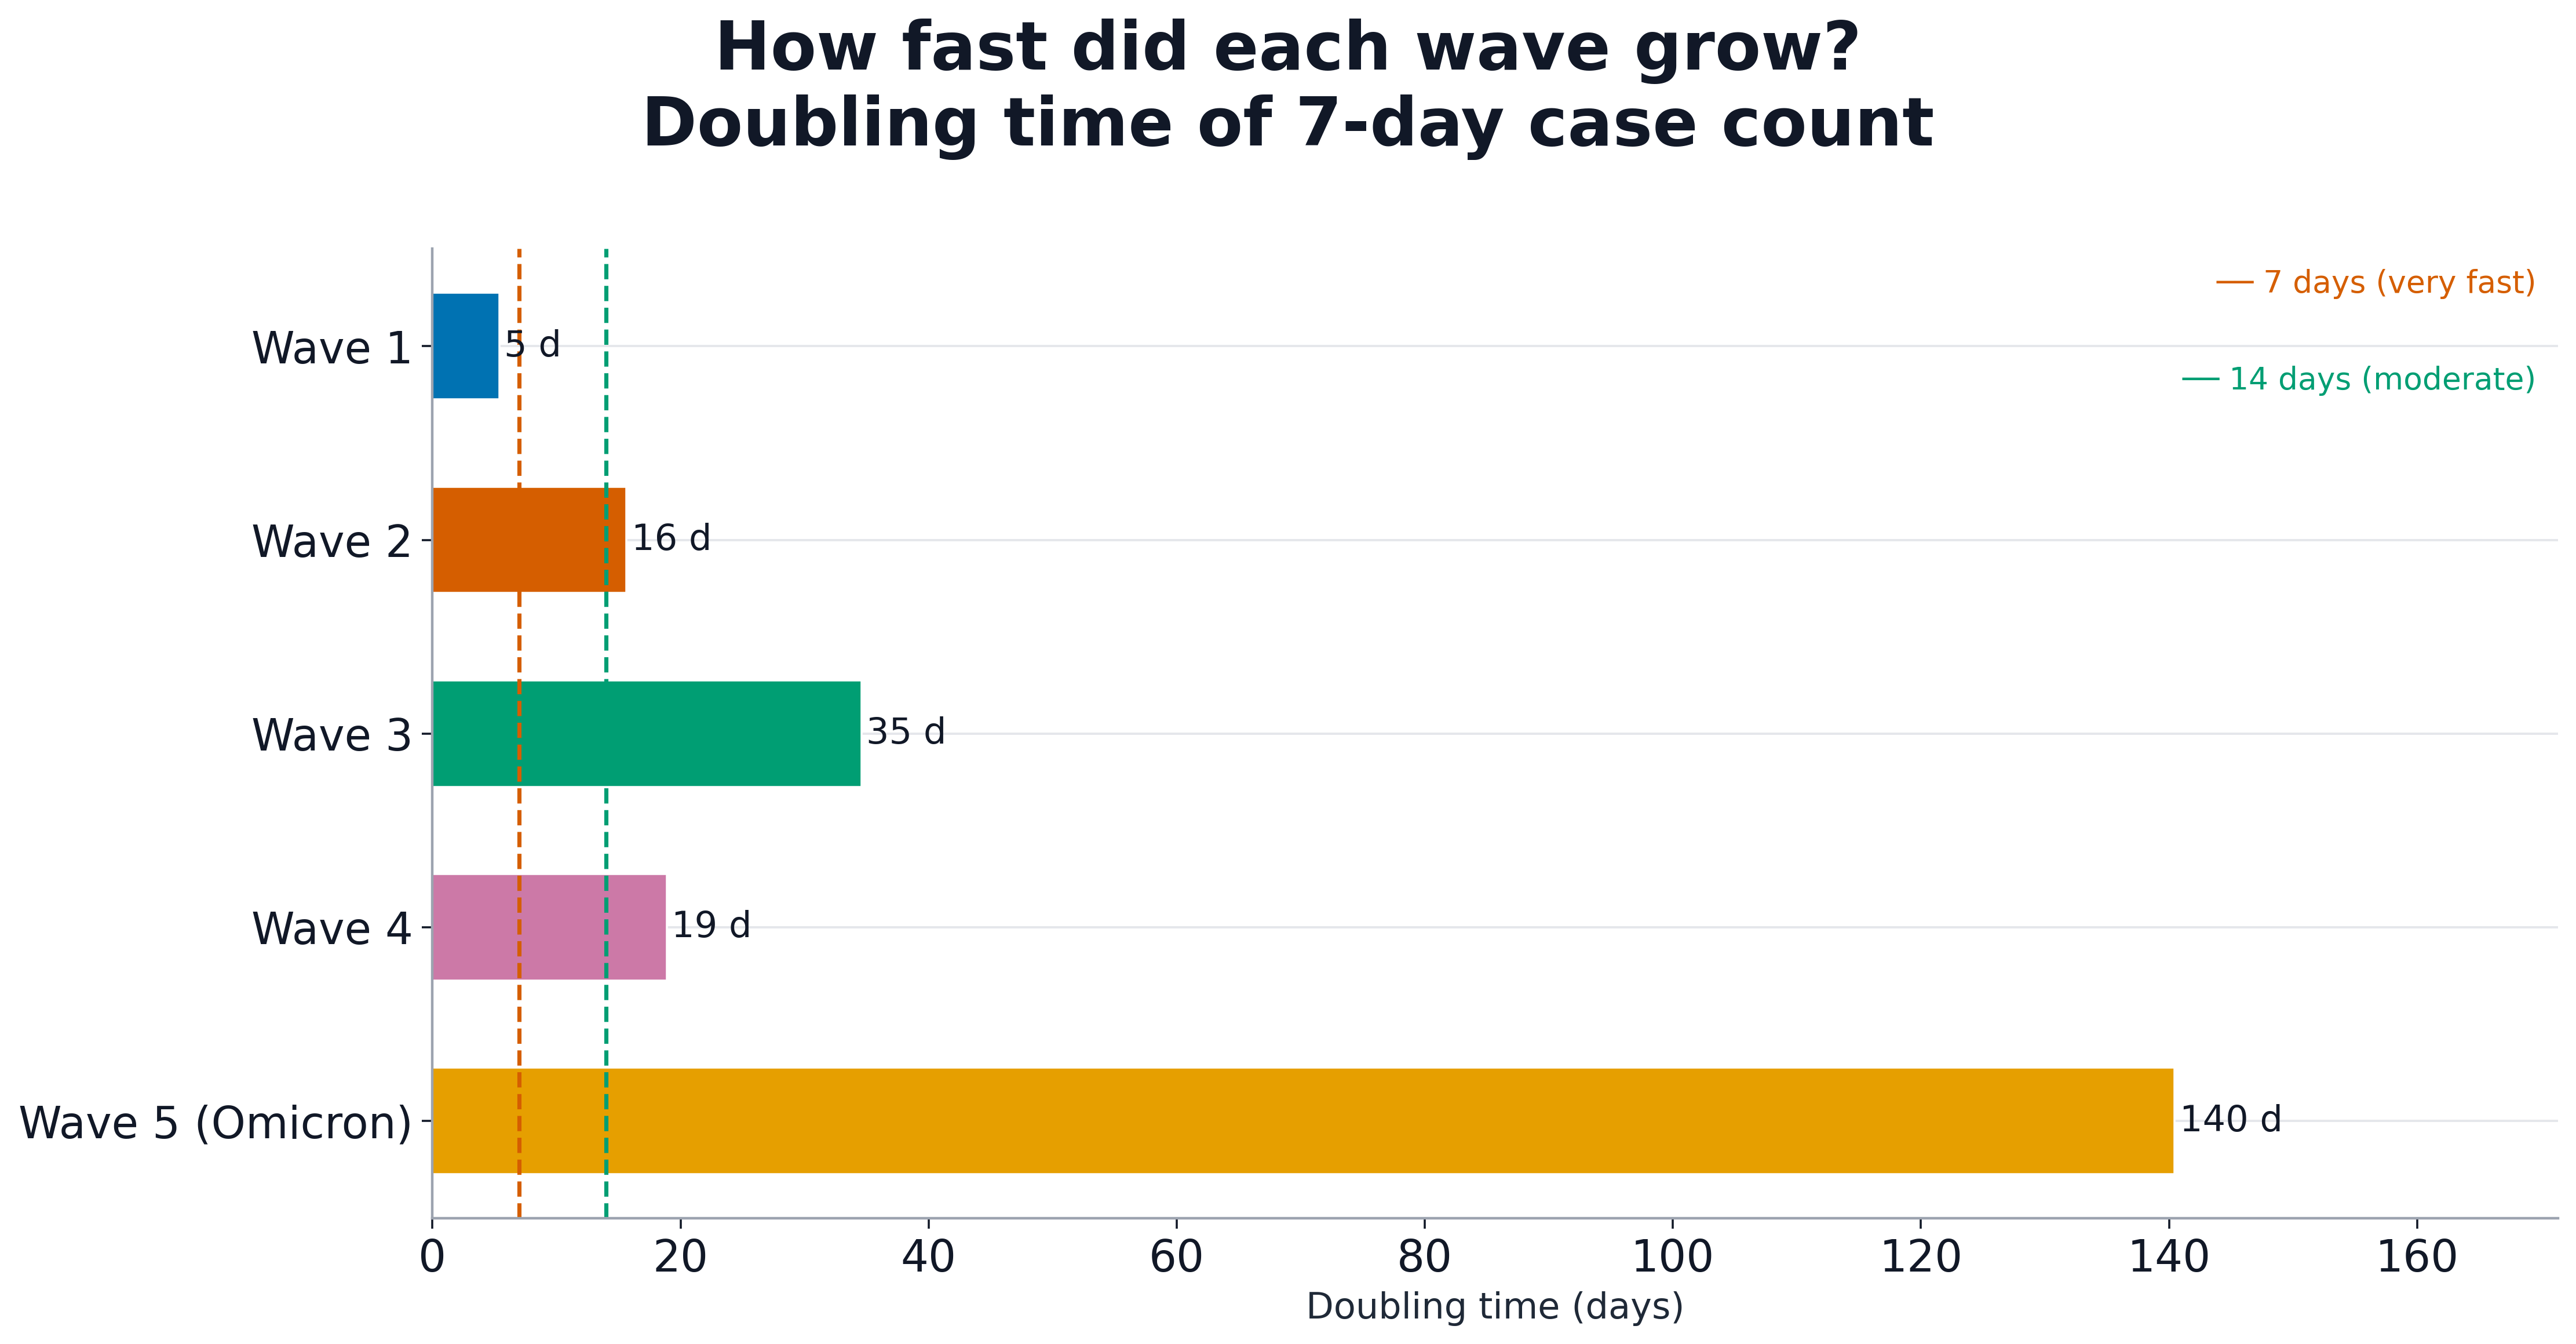
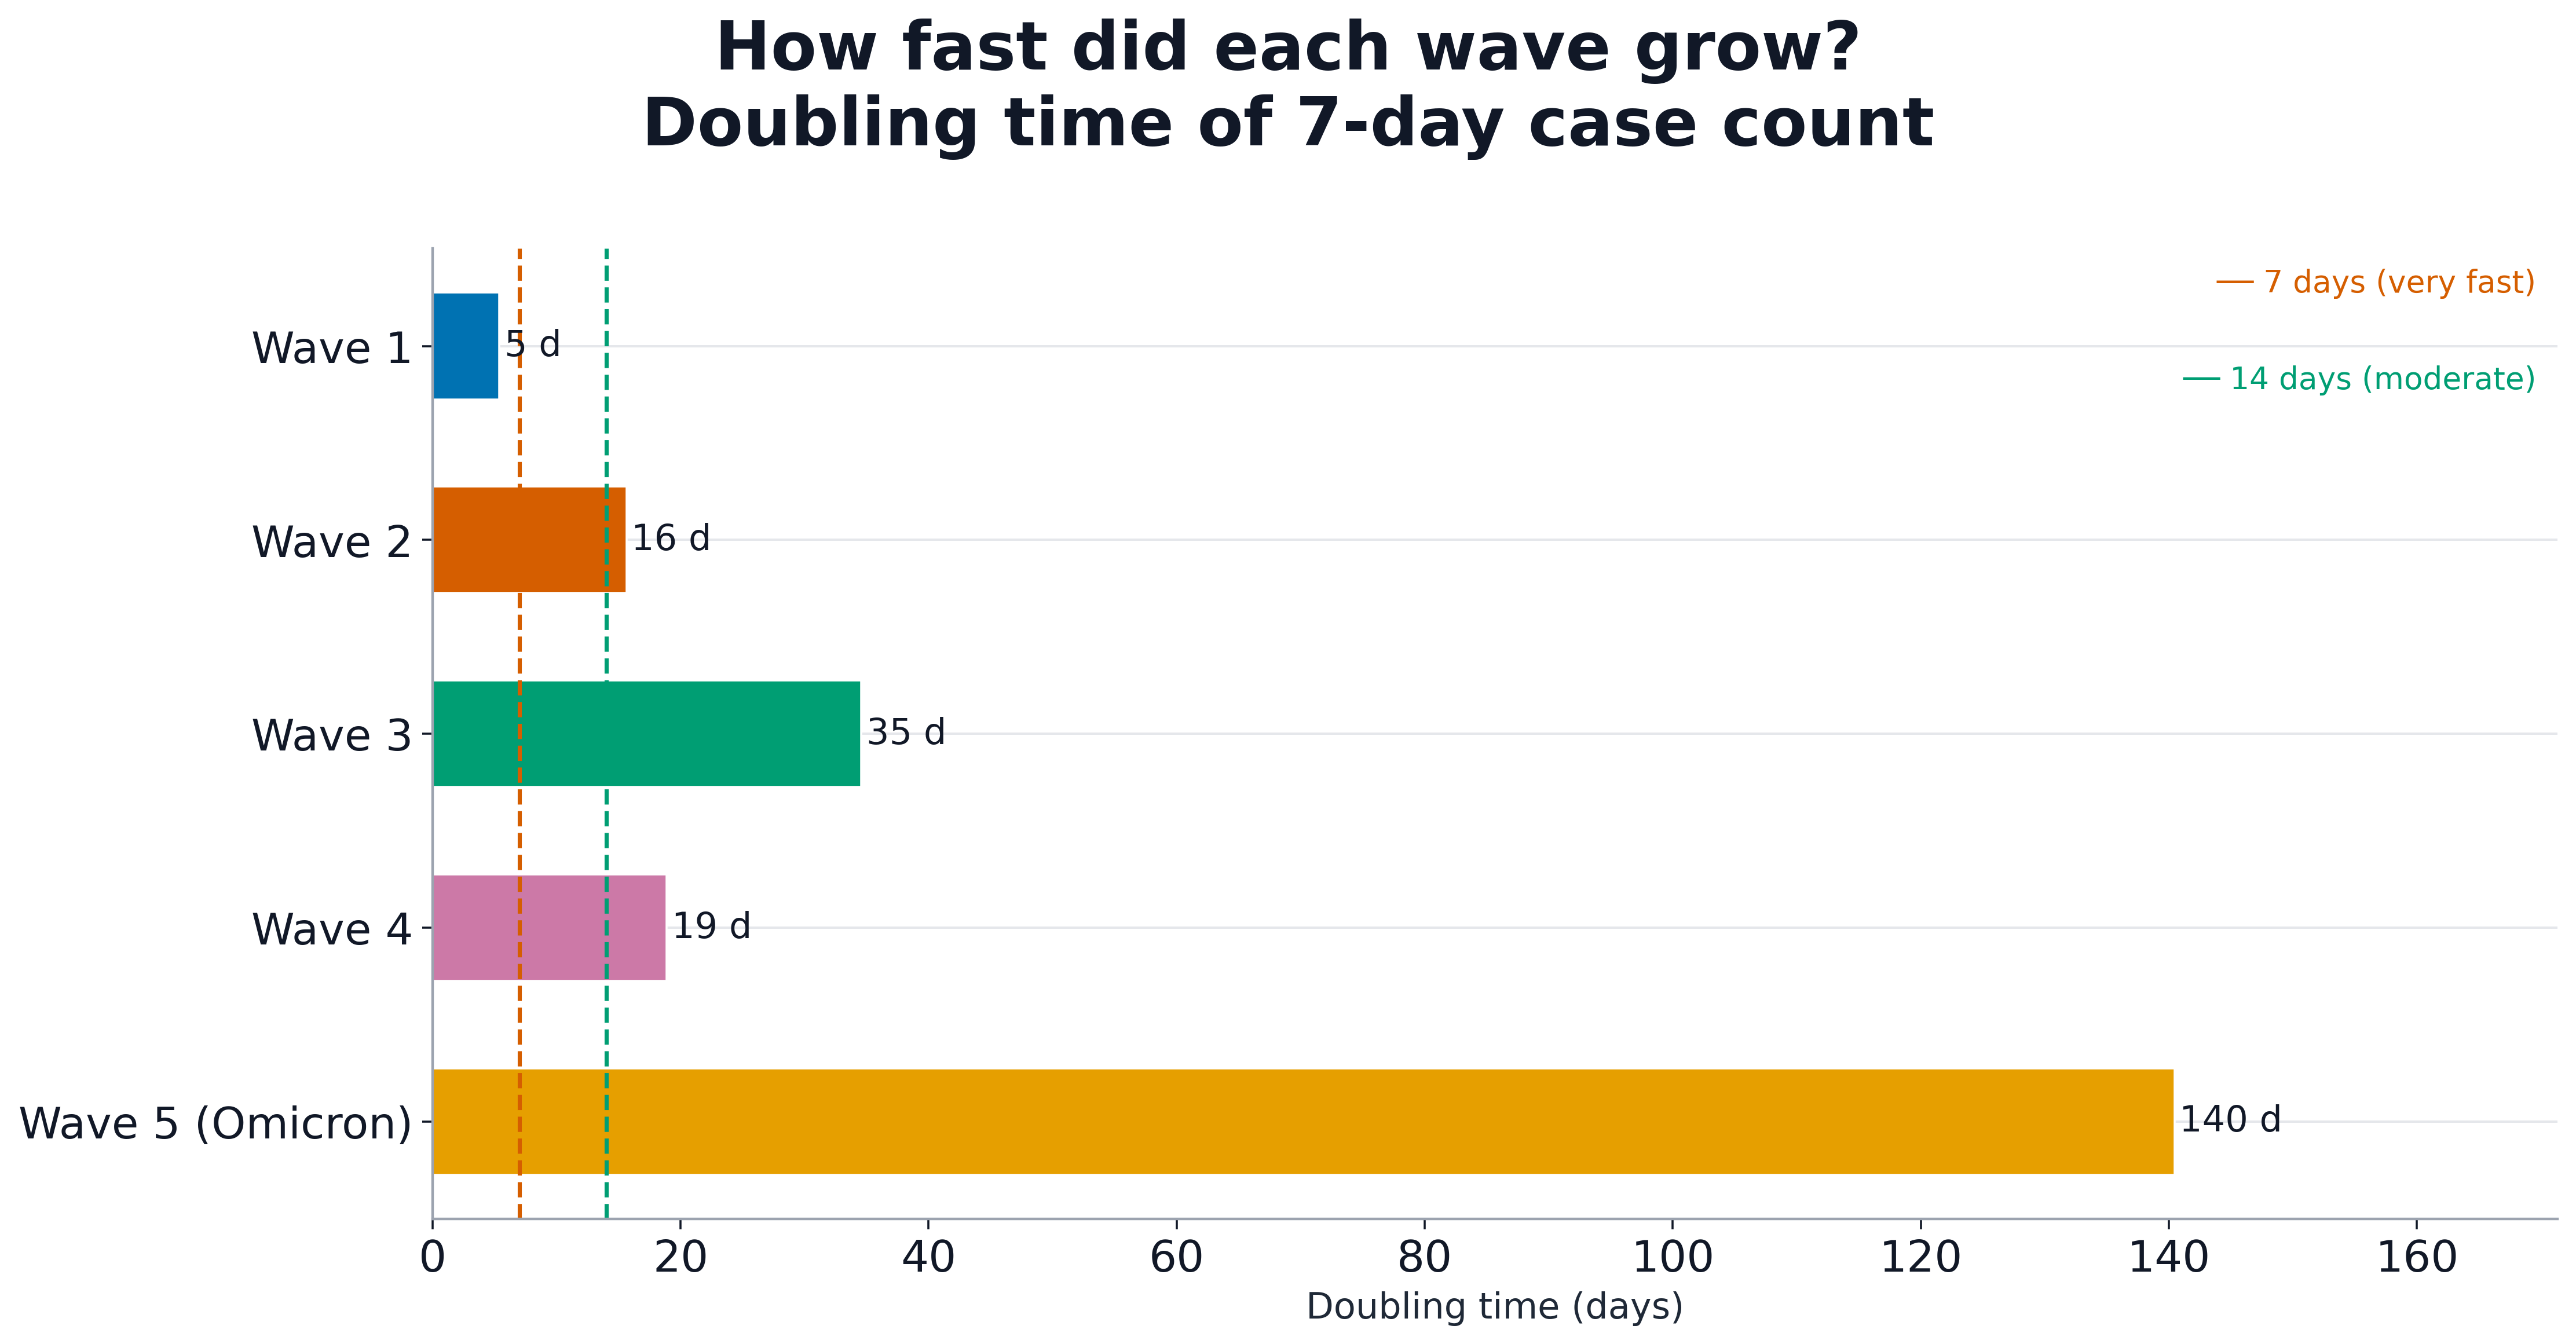
feat: improve regression and Germany-Poland comparison analyses

diff --git a/output/figures/plot06_regression_interactive.html b/output/figures/plot06_regression_interactive.html
@@ -2,6 +2,6 @@
 <head><meta charset="utf-8" /><style>html,body{width:100%;height:100%;margin:0;padding:0;overflow:hidden;}.js-plotly-plot,.plot-container{width:100%!important;height:100%!important;}</style></head>
 <body>
     <div>                        <script type="text/javascript">window.PlotlyConfig = {MathJaxConfig: 'local'};</script>
-        <script charset="utf-8" src="https://cdn.plot.ly/plotly-2.35.2.min.js"></script>                <div id="5bdaaaf7-1463-416f-8d72-02e0defebc28" class="plotly-graph-div" style="height:420px; width:100%;"></div>            <script type="text/javascript">                                    window.PLOTLYENV=window.PLOTLYENV || {};                                    if (document.getElementById("5bdaaaf7-1463-416f-8d72-02e0defebc28")) {                    Plotly.newPlot(                        "5bdaaaf7-1463-416f-8d72-02e0defebc28",                        [{"cliponaxis":false,"customdata":["\u003cb\u003eWave 1\u003c\u002fb\u003e\u003cbr\u003ePeriod: 2020-03-01 \u2013 2020-06-30\u003cbr\u003eDoubling time: \u003cb\u003e5.4 days\u003c\u002fb\u003e\u003cbr\u003eGrowth rate: 0.1285 day\u207b\u00b9","\u003cb\u003eWave 2\u003c\u002fb\u003e\u003cbr\u003ePeriod: 2020-10-01 \u2013 2021-02-28\u003cbr\u003eDoubling time: \u003cb\u003e15.6 days\u003c\u002fb\u003e\u003cbr\u003eGrowth rate: 0.0443 day\u207b\u00b9","\u003cb\u003eWave 3\u003c\u002fb\u003e\u003cbr\u003ePeriod: 2021-03-01 \u2013 2021-06-30\u003cbr\u003eDoubling time: \u003cb\u003e34.6 days\u003c\u002fb\u003e\u003cbr\u003eGrowth rate: 0.0200 day\u207b\u00b9","\u003cb\u003eWave 4\u003c\u002fb\u003e\u003cbr\u003ePeriod: 2021-10-01 \u2013 2022-01-31\u003cbr\u003eDoubling time: \u003cb\u003e18.9 days\u003c\u002fb\u003e\u003cbr\u003eGrowth rate: 0.0367 day\u207b\u00b9","\u003cb\u003eWave 5 (Omicron)\u003c\u002fb\u003e\u003cbr\u003ePeriod: 2022-02-01 \u2013 2022-06-30\u003cbr\u003eDoubling time: \u003cb\u003e140.4 days\u003c\u002fb\u003e\u003cbr\u003eGrowth rate: 0.0049 day\u207b\u00b9"],"hovertemplate":"%{customdata}\u003cextra\u003e\u003c\u002fextra\u003e","marker":{"color":["#0072B2","#D55E00","#009E73","#CC79A7","#E69F00"],"line":{"color":"white","width":0.8}},"orientation":"h","text":["\u003cb\u003e5 d\u003c\u002fb\u003e","\u003cb\u003e16 d\u003c\u002fb\u003e","\u003cb\u003e35 d\u003c\u002fb\u003e","\u003cb\u003e19 d\u003c\u002fb\u003e","\u003cb\u003e140 d\u003c\u002fb\u003e"],"textposition":"outside","x":[5.394331189878324,15.630832441631355,34.58315834537602,18.888832740583158,140.44196291911743],"y":["Wave 1","Wave 2","Wave 3","Wave 4","Wave 5 (Omicron)"],"type":"bar"}],                        {"template":{"data":{"barpolar":[{"marker":{"line":{"color":"white","width":0.5},"pattern":{"fillmode":"overlay","size":10,"solidity":0.2}},"type":"barpolar"}],"bar":[{"error_x":{"color":"#2a3f5f"},"error_y":{"color":"#2a3f5f"},"marker":{"line":{"color":"white","width":0.5},"pattern":{"fillmode":"overlay","size":10,"solidity":0.2}},"type":"bar"}],"carpet":[{"aaxis":{"endlinecolor":"#2a3f5f","gridcolor":"#C8D4E3","linecolor":"#C8D4E3","minorgridcolor":"#C8D4E3","startlinecolor":"#2a3f5f"},"baxis":{"endlinecolor":"#2a3f5f","gridcolor":"#C8D4E3","linecolor":"#C8D4E3","minorgridcolor":"#C8D4E3","startlinecolor":"#2a3f5f"},"type":"carpet"}],"choropleth":[{"colorbar":{"outlinewidth":0,"ticks":""},"type":"choropleth"}],"contourcarpet":[{"colorbar":{"outlinewidth":0,"ticks":""},"type":"contourcarpet"}],"contour":[{"colorbar":{"outlinewidth":0,"ticks":""},"colorscale":[[0.0,"#0d0887"],[0.1111111111111111,"#46039f"],[0.2222222222222222,"#7201a8"],[0.3333333333333333,"#9c179e"],[0.4444444444444444,"#bd3786"],[0.5555555555555556,"#d8576b"],[0.6666666666666666,"#ed7953"],[0.7777777777777778,"#fb9f3a"],[0.8888888888888888,"#fdca26"],[1.0,"#f0f921"]],"type":"contour"}],"heatmapgl":[{"colorbar":{"outlinewidth":0,"ticks":""},"colorscale":[[0.0,"#0d0887"],[0.1111111111111111,"#46039f"],[0.2222222222222222,"#7201a8"],[0.3333333333333333,"#9c179e"],[0.4444444444444444,"#bd3786"],[0.5555555555555556,"#d8576b"],[0.6666666666666666,"#ed7953"],[0.7777777777777778,"#fb9f3a"],[0.8888888888888888,"#fdca26"],[1.0,"#f0f921"]],"type":"heatmapgl"}],"heatmap":[{"colorbar":{"outlinewidth":0,"ticks":""},"colorscale":[[0.0,"#0d0887"],[0.1111111111111111,"#46039f"],[0.2222222222222222,"#7201a8"],[0.3333333333333333,"#9c179e"],[0.4444444444444444,"#bd3786"],[0.5555555555555556,"#d8576b"],[0.6666666666666666,"#ed7953"],[0.7777777777777778,"#fb9f3a"],[0.8888888888888888,"#fdca26"],[1.0,"#f0f921"]],"type":"heatmap"}],"histogram2dcontour":[{"colorbar":{"outlinewidth":0,"ticks":""},"colorscale":[[0.0,"#0d0887"],[0.1111111111111111,"#46039f"],[0.2222222222222222,"#7201a8"],[0.3333333333333333,"#9c179e"],[0.4444444444444444,"#bd3786"],[0.5555555555555556,"#d8576b"],[0.6666666666666666,"#ed7953"],[0.7777777777777778,"#fb9f3a"],[0.8888888888888888,"#fdca26"],[1.0,"#f0f921"]],"type":"histogram2dcontour"}],"histogram2d":[{"colorbar":{"outlinewidth":0,"ticks":""},"colorscale":[[0.0,"#0d0887"],[0.1111111111111111,"#46039f"],[0.2222222222222222,"#7201a8"],[0.3333333333333333,"#9c179e"],[0.4444444444444444,"#bd3786"],[0.5555555555555556,"#d8576b"],[0.6666666666666666,"#ed7953"],[0.7777777777777778,"#fb9f3a"],[0.8888888888888888,"#fdca26"],[1.0,"#f0f921"]],"type":"histogram2d"}],"histogram":[{"marker":{"pattern":{"fillmode":"overlay","size":10,"solidity":0.2}},"type":"histogram"}],"mesh3d":[{"colorbar":{"outlinewidth":0,"ticks":""},"type":"mesh3d"}],"parcoords":[{"line":{"colorbar":{"outlinewidth":0,"ticks":""}},"type":"parcoords"}],"pie":[{"automargin":true,"type":"pie"}],"scatter3d":[{"line":{"colorbar":{"outlinewidth":0,"ticks":""}},"marker":{"colorbar":{"outlinewidth":0,"ticks":""}},"type":"scatter3d"}],"scattercarpet":[{"marker":{"colorbar":{"outlinewidth":0,"ticks":""}},"type":"scattercarpet"}],"scattergeo":[{"marker":{"colorbar":{"outlinewidth":0,"ticks":""}},"type":"scattergeo"}],"scattergl":[{"marker":{"colorbar":{"outlinewidth":0,"ticks":""}},"type":"scattergl"}],"scattermapbox":[{"marker":{"colorbar":{"outlinewidth":0,"ticks":""}},"type":"scattermapbox"}],"scatterpolargl":[{"marker":{"colorbar":{"outlinewidth":0,"ticks":""}},"type":"scatterpolargl"}],"scatterpolar":[{"marker":{"colorbar":{"outlinewidth":0,"ticks":""}},"type":"scatterpolar"}],"scatter":[{"fillpattern":{"fillmode":"overlay","size":10,"solidity":0.2},"type":"scatter"}],"scatterternary":[{"marker":{"colorbar":{"outlinewidth":0,"ticks":""}},"type":"scatterternary"}],"surface":[{"colorbar":{"outlinewidth":0,"ticks":""},"colorscale":[[0.0,"#0d0887"],[0.1111111111111111,"#46039f"],[0.2222222222222222,"#7201a8"],[0.3333333333333333,"#9c179e"],[0.4444444444444444,"#bd3786"],[0.5555555555555556,"#d8576b"],[0.6666666666666666,"#ed7953"],[0.7777777777777778,"#fb9f3a"],[0.8888888888888888,"#fdca26"],[1.0,"#f0f921"]],"type":"surface"}],"table":[{"cells":{"fill":{"color":"#EBF0F8"},"line":{"color":"white"}},"header":{"fill":{"color":"#C8D4E3"},"line":{"color":"white"}},"type":"table"}]},"layout":{"annotationdefaults":{"arrowcolor":"#2a3f5f","arrowhead":0,"arrowwidth":1},"autotypenumbers":"strict","coloraxis":{"colorbar":{"outlinewidth":0,"ticks":""}},"colorscale":{"diverging":[[0,"#8e0152"],[0.1,"#c51b7d"],[0.2,"#de77ae"],[0.3,"#f1b6da"],[0.4,"#fde0ef"],[0.5,"#f7f7f7"],[0.6,"#e6f5d0"],[0.7,"#b8e186"],[0.8,"#7fbc41"],[0.9,"#4d9221"],[1,"#276419"]],"sequential":[[0.0,"#0d0887"],[0.1111111111111111,"#46039f"],[0.2222222222222222,"#7201a8"],[0.3333333333333333,"#9c179e"],[0.4444444444444444,"#bd3786"],[0.5555555555555556,"#d8576b"],[0.6666666666666666,"#ed7953"],[0.7777777777777778,"#fb9f3a"],[0.8888888888888888,"#fdca26"],[1.0,"#f0f921"]],"sequentialminus":[[0.0,"#0d0887"],[0.1111111111111111,"#46039f"],[0.2222222222222222,"#7201a8"],[0.3333333333333333,"#9c179e"],[0.4444444444444444,"#bd3786"],[0.5555555555555556,"#d8576b"],[0.6666666666666666,"#ed7953"],[0.7777777777777778,"#fb9f3a"],[0.8888888888888888,"#fdca26"],[1.0,"#f0f921"]]},"colorway":["#636efa","#EF553B","#00cc96","#ab63fa","#FFA15A","#19d3f3","#FF6692","#B6E880","#FF97FF","#FECB52"],"font":{"color":"#2a3f5f"},"geo":{"bgcolor":"white","lakecolor":"white","landcolor":"white","showlakes":true,"showland":true,"subunitcolor":"#C8D4E3"},"hoverlabel":{"align":"left"},"hovermode":"closest","mapbox":{"style":"light"},"paper_bgcolor":"white","plot_bgcolor":"white","polar":{"angularaxis":{"gridcolor":"#EBF0F8","linecolor":"#EBF0F8","ticks":""},"bgcolor":"white","radialaxis":{"gridcolor":"#EBF0F8","linecolor":"#EBF0F8","ticks":""}},"scene":{"xaxis":{"backgroundcolor":"white","gridcolor":"#DFE8F3","gridwidth":2,"linecolor":"#EBF0F8","showbackground":true,"ticks":"","zerolinecolor":"#EBF0F8"},"yaxis":{"backgroundcolor":"white","gridcolor":"#DFE8F3","gridwidth":2,"linecolor":"#EBF0F8","showbackground":true,"ticks":"","zerolinecolor":"#EBF0F8"},"zaxis":{"backgroundcolor":"white","gridcolor":"#DFE8F3","gridwidth":2,"linecolor":"#EBF0F8","showbackground":true,"ticks":"","zerolinecolor":"#EBF0F8"}},"shapedefaults":{"line":{"color":"#2a3f5f"}},"ternary":{"aaxis":{"gridcolor":"#DFE8F3","linecolor":"#A2B1C6","ticks":""},"baxis":{"gridcolor":"#DFE8F3","linecolor":"#A2B1C6","ticks":""},"bgcolor":"white","caxis":{"gridcolor":"#DFE8F3","linecolor":"#A2B1C6","ticks":""}},"title":{"x":0.05},"xaxis":{"automargin":true,"gridcolor":"#EBF0F8","linecolor":"#EBF0F8","ticks":"","title":{"standoff":15},"zerolinecolor":"#EBF0F8","zerolinewidth":2},"yaxis":{"automargin":true,"gridcolor":"#EBF0F8","linecolor":"#EBF0F8","ticks":"","title":{"standoff":15},"zerolinecolor":"#EBF0F8","zerolinewidth":2}}},"shapes":[{"line":{"color":"#D55E00","dash":"dash","width":1.8},"type":"line","x0":7,"x1":7,"xref":"x","y0":0,"y1":1,"yref":"y domain"},{"line":{"color":"#009E73","dash":"dash","width":1.8},"type":"line","x0":14,"x1":14,"xref":"x","y0":0,"y1":1,"yref":"y domain"}],"annotations":[{"font":{"color":"#D55E00","size":12},"showarrow":false,"text":"7 d \u2014 very fast","x":7,"xanchor":"left","y":1.02,"yref":"paper"},{"font":{"color":"#009E73","size":12},"showarrow":false,"text":"14 d \u2014 moderate","x":14,"xanchor":"left","y":1.02,"yref":"paper"}],"title":{"font":{"size":17,"color":"#111827"},"text":"How fast did each wave grow? \u2014 Doubling time per wave","x":0.5,"xanchor":"center"},"xaxis":{"title":{"text":"Doubling time (days)"},"range":[0,171.33919476132326],"showgrid":true,"gridcolor":"#E5E7EB"},"yaxis":{"tickfont":{"size":14},"autorange":"reversed"},"margin":{"l":20,"r":80,"t":70,"b":50},"height":420,"autosize":true,"showlegend":false},                        {"responsive": true, "displaylogo": false}                    )                };                            </script>        </div>
+        <script charset="utf-8" src="https://cdn.plot.ly/plotly-3.1.1.min.js" integrity="sha256-HUEFyfiTnZJxCxur99FjbKYTvKSzwDaD3/x5TqHpFu4=" crossorigin="anonymous"></script>                <div id="c5fcffad-ac04-400d-8878-195c68b79983" class="plotly-graph-div" style="height:420px; width:100%;"></div>            <script type="text/javascript">                window.PLOTLYENV=window.PLOTLYENV || {};                                if (document.getElementById("c5fcffad-ac04-400d-8878-195c68b79983")) {                    Plotly.newPlot(                        "c5fcffad-ac04-400d-8878-195c68b79983",                        [{"cliponaxis":false,"customdata":["\u003cb\u003eWave 1\u003c\u002fb\u003e\u003cbr\u003ePeriod: 2020-03-01 – 2020-06-30\u003cbr\u003eDoubling time: \u003cb\u003e5.4 days\u003c\u002fb\u003e\u003cbr\u003eGrowth rate: 0.1285 day⁻¹","\u003cb\u003eWave 2\u003c\u002fb\u003e\u003cbr\u003ePeriod: 2020-10-01 – 2021-02-28\u003cbr\u003eDoubling time: \u003cb\u003e15.6 days\u003c\u002fb\u003e\u003cbr\u003eGrowth rate: 0.0443 day⁻¹","\u003cb\u003eWave 3\u003c\u002fb\u003e\u003cbr\u003ePeriod: 2021-03-01 – 2021-06-30\u003cbr\u003eDoubling time: \u003cb\u003e34.6 days\u003c\u002fb\u003e\u003cbr\u003eGrowth rate: 0.0200 day⁻¹","\u003cb\u003eWave 4\u003c\u002fb\u003e\u003cbr\u003ePeriod: 2021-10-01 – 2022-01-31\u003cbr\u003eDoubling time: \u003cb\u003e18.9 days\u003c\u002fb\u003e\u003cbr\u003eGrowth rate: 0.0367 day⁻¹","\u003cb\u003eWave 5 (Omicron)\u003c\u002fb\u003e\u003cbr\u003ePeriod: 2022-02-01 – 2022-06-30\u003cbr\u003eDoubling time: \u003cb\u003e140.4 days\u003c\u002fb\u003e\u003cbr\u003eGrowth rate: 0.0049 day⁻¹"],"hovertemplate":"%{customdata}\u003cextra\u003e\u003c\u002fextra\u003e","marker":{"color":["#0072B2","#D55E00","#009E73","#CC79A7","#E69F00"],"line":{"color":"white","width":0.8}},"orientation":"h","text":["\u003cb\u003e5 d\u003c\u002fb\u003e","\u003cb\u003e16 d\u003c\u002fb\u003e","\u003cb\u003e35 d\u003c\u002fb\u003e","\u003cb\u003e19 d\u003c\u002fb\u003e","\u003cb\u003e140 d\u003c\u002fb\u003e"],"textposition":"outside","x":[5.394331189878324,15.630832441631357,34.58315834537602,18.888832740583158,140.44196291911743],"y":["Wave 1","Wave 2","Wave 3","Wave 4","Wave 5 (Omicron)"],"type":"bar"}],                        {"template":{"data":{"barpolar":[{"marker":{"line":{"color":"white","width":0.5},"pattern":{"fillmode":"overlay","size":10,"solidity":0.2}},"type":"barpolar"}],"bar":[{"error_x":{"color":"#2a3f5f"},"error_y":{"color":"#2a3f5f"},"marker":{"line":{"color":"white","width":0.5},"pattern":{"fillmode":"overlay","size":10,"solidity":0.2}},"type":"bar"}],"carpet":[{"aaxis":{"endlinecolor":"#2a3f5f","gridcolor":"#C8D4E3","linecolor":"#C8D4E3","minorgridcolor":"#C8D4E3","startlinecolor":"#2a3f5f"},"baxis":{"endlinecolor":"#2a3f5f","gridcolor":"#C8D4E3","linecolor":"#C8D4E3","minorgridcolor":"#C8D4E3","startlinecolor":"#2a3f5f"},"type":"carpet"}],"choropleth":[{"colorbar":{"outlinewidth":0,"ticks":""},"type":"choropleth"}],"contourcarpet":[{"colorbar":{"outlinewidth":0,"ticks":""},"type":"contourcarpet"}],"contour":[{"colorbar":{"outlinewidth":0,"ticks":""},"colorscale":[[0.0,"#0d0887"],[0.1111111111111111,"#46039f"],[0.2222222222222222,"#7201a8"],[0.3333333333333333,"#9c179e"],[0.4444444444444444,"#bd3786"],[0.5555555555555556,"#d8576b"],[0.6666666666666666,"#ed7953"],[0.7777777777777778,"#fb9f3a"],[0.8888888888888888,"#fdca26"],[1.0,"#f0f921"]],"type":"contour"}],"heatmap":[{"colorbar":{"outlinewidth":0,"ticks":""},"colorscale":[[0.0,"#0d0887"],[0.1111111111111111,"#46039f"],[0.2222222222222222,"#7201a8"],[0.3333333333333333,"#9c179e"],[0.4444444444444444,"#bd3786"],[0.5555555555555556,"#d8576b"],[0.6666666666666666,"#ed7953"],[0.7777777777777778,"#fb9f3a"],[0.8888888888888888,"#fdca26"],[1.0,"#f0f921"]],"type":"heatmap"}],"histogram2dcontour":[{"colorbar":{"outlinewidth":0,"ticks":""},"colorscale":[[0.0,"#0d0887"],[0.1111111111111111,"#46039f"],[0.2222222222222222,"#7201a8"],[0.3333333333333333,"#9c179e"],[0.4444444444444444,"#bd3786"],[0.5555555555555556,"#d8576b"],[0.6666666666666666,"#ed7953"],[0.7777777777777778,"#fb9f3a"],[0.8888888888888888,"#fdca26"],[1.0,"#f0f921"]],"type":"histogram2dcontour"}],"histogram2d":[{"colorbar":{"outlinewidth":0,"ticks":""},"colorscale":[[0.0,"#0d0887"],[0.1111111111111111,"#46039f"],[0.2222222222222222,"#7201a8"],[0.3333333333333333,"#9c179e"],[0.4444444444444444,"#bd3786"],[0.5555555555555556,"#d8576b"],[0.6666666666666666,"#ed7953"],[0.7777777777777778,"#fb9f3a"],[0.8888888888888888,"#fdca26"],[1.0,"#f0f921"]],"type":"histogram2d"}],"histogram":[{"marker":{"pattern":{"fillmode":"overlay","size":10,"solidity":0.2}},"type":"histogram"}],"mesh3d":[{"colorbar":{"outlinewidth":0,"ticks":""},"type":"mesh3d"}],"parcoords":[{"line":{"colorbar":{"outlinewidth":0,"ticks":""}},"type":"parcoords"}],"pie":[{"automargin":true,"type":"pie"}],"scatter3d":[{"line":{"colorbar":{"outlinewidth":0,"ticks":""}},"marker":{"colorbar":{"outlinewidth":0,"ticks":""}},"type":"scatter3d"}],"scattercarpet":[{"marker":{"colorbar":{"outlinewidth":0,"ticks":""}},"type":"scattercarpet"}],"scattergeo":[{"marker":{"colorbar":{"outlinewidth":0,"ticks":""}},"type":"scattergeo"}],"scattergl":[{"marker":{"colorbar":{"outlinewidth":0,"ticks":""}},"type":"scattergl"}],"scattermapbox":[{"marker":{"colorbar":{"outlinewidth":0,"ticks":""}},"type":"scattermapbox"}],"scattermap":[{"marker":{"colorbar":{"outlinewidth":0,"ticks":""}},"type":"scattermap"}],"scatterpolargl":[{"marker":{"colorbar":{"outlinewidth":0,"ticks":""}},"type":"scatterpolargl"}],"scatterpolar":[{"marker":{"colorbar":{"outlinewidth":0,"ticks":""}},"type":"scatterpolar"}],"scatter":[{"fillpattern":{"fillmode":"overlay","size":10,"solidity":0.2},"type":"scatter"}],"scatterternary":[{"marker":{"colorbar":{"outlinewidth":0,"ticks":""}},"type":"scatterternary"}],"surface":[{"colorbar":{"outlinewidth":0,"ticks":""},"colorscale":[[0.0,"#0d0887"],[0.1111111111111111,"#46039f"],[0.2222222222222222,"#7201a8"],[0.3333333333333333,"#9c179e"],[0.4444444444444444,"#bd3786"],[0.5555555555555556,"#d8576b"],[0.6666666666666666,"#ed7953"],[0.7777777777777778,"#fb9f3a"],[0.8888888888888888,"#fdca26"],[1.0,"#f0f921"]],"type":"surface"}],"table":[{"cells":{"fill":{"color":"#EBF0F8"},"line":{"color":"white"}},"header":{"fill":{"color":"#C8D4E3"},"line":{"color":"white"}},"type":"table"}]},"layout":{"annotationdefaults":{"arrowcolor":"#2a3f5f","arrowhead":0,"arrowwidth":1},"autotypenumbers":"strict","coloraxis":{"colorbar":{"outlinewidth":0,"ticks":""}},"colorscale":{"diverging":[[0,"#8e0152"],[0.1,"#c51b7d"],[0.2,"#de77ae"],[0.3,"#f1b6da"],[0.4,"#fde0ef"],[0.5,"#f7f7f7"],[0.6,"#e6f5d0"],[0.7,"#b8e186"],[0.8,"#7fbc41"],[0.9,"#4d9221"],[1,"#276419"]],"sequential":[[0.0,"#0d0887"],[0.1111111111111111,"#46039f"],[0.2222222222222222,"#7201a8"],[0.3333333333333333,"#9c179e"],[0.4444444444444444,"#bd3786"],[0.5555555555555556,"#d8576b"],[0.6666666666666666,"#ed7953"],[0.7777777777777778,"#fb9f3a"],[0.8888888888888888,"#fdca26"],[1.0,"#f0f921"]],"sequentialminus":[[0.0,"#0d0887"],[0.1111111111111111,"#46039f"],[0.2222222222222222,"#7201a8"],[0.3333333333333333,"#9c179e"],[0.4444444444444444,"#bd3786"],[0.5555555555555556,"#d8576b"],[0.6666666666666666,"#ed7953"],[0.7777777777777778,"#fb9f3a"],[0.8888888888888888,"#fdca26"],[1.0,"#f0f921"]]},"colorway":["#636efa","#EF553B","#00cc96","#ab63fa","#FFA15A","#19d3f3","#FF6692","#B6E880","#FF97FF","#FECB52"],"font":{"color":"#2a3f5f"},"geo":{"bgcolor":"white","lakecolor":"white","landcolor":"white","showlakes":true,"showland":true,"subunitcolor":"#C8D4E3"},"hoverlabel":{"align":"left"},"hovermode":"closest","mapbox":{"style":"light"},"paper_bgcolor":"white","plot_bgcolor":"white","polar":{"angularaxis":{"gridcolor":"#EBF0F8","linecolor":"#EBF0F8","ticks":""},"bgcolor":"white","radialaxis":{"gridcolor":"#EBF0F8","linecolor":"#EBF0F8","ticks":""}},"scene":{"xaxis":{"backgroundcolor":"white","gridcolor":"#DFE8F3","gridwidth":2,"linecolor":"#EBF0F8","showbackground":true,"ticks":"","zerolinecolor":"#EBF0F8"},"yaxis":{"backgroundcolor":"white","gridcolor":"#DFE8F3","gridwidth":2,"linecolor":"#EBF0F8","showbackground":true,"ticks":"","zerolinecolor":"#EBF0F8"},"zaxis":{"backgroundcolor":"white","gridcolor":"#DFE8F3","gridwidth":2,"linecolor":"#EBF0F8","showbackground":true,"ticks":"","zerolinecolor":"#EBF0F8"}},"shapedefaults":{"line":{"color":"#2a3f5f"}},"ternary":{"aaxis":{"gridcolor":"#DFE8F3","linecolor":"#A2B1C6","ticks":""},"baxis":{"gridcolor":"#DFE8F3","linecolor":"#A2B1C6","ticks":""},"bgcolor":"white","caxis":{"gridcolor":"#DFE8F3","linecolor":"#A2B1C6","ticks":""}},"title":{"x":0.05},"xaxis":{"automargin":true,"gridcolor":"#EBF0F8","linecolor":"#EBF0F8","ticks":"","title":{"standoff":15},"zerolinecolor":"#EBF0F8","zerolinewidth":2},"yaxis":{"automargin":true,"gridcolor":"#EBF0F8","linecolor":"#EBF0F8","ticks":"","title":{"standoff":15},"zerolinecolor":"#EBF0F8","zerolinewidth":2}}},"shapes":[{"line":{"color":"#D55E00","dash":"dash","width":1.8},"type":"line","x0":7,"x1":7,"xref":"x","y0":0,"y1":1,"yref":"y domain"},{"line":{"color":"#009E73","dash":"dash","width":1.8},"type":"line","x0":14,"x1":14,"xref":"x","y0":0,"y1":1,"yref":"y domain"}],"annotations":[{"font":{"color":"#D55E00","size":12},"showarrow":false,"text":"7 d — very fast","x":7,"xanchor":"left","y":1.02,"yref":"paper"},{"font":{"color":"#009E73","size":12},"showarrow":false,"text":"14 d — moderate","x":14,"xanchor":"left","y":1.02,"yref":"paper"}],"title":{"font":{"size":17,"color":"#111827"},"text":"How fast did each wave grow? — Doubling time per wave","x":0.5,"xanchor":"center"},"xaxis":{"title":{"text":"Doubling time (days)"},"range":[0,171.33919476132326],"showgrid":true,"gridcolor":"#E5E7EB"},"yaxis":{"tickfont":{"size":14},"autorange":"reversed"},"margin":{"l":20,"r":80,"t":70,"b":50},"height":420,"autosize":true,"showlegend":false},                        {"responsive": true, "displaylogo": false}                    )                };            </script>        </div>
 </body>
 </html>